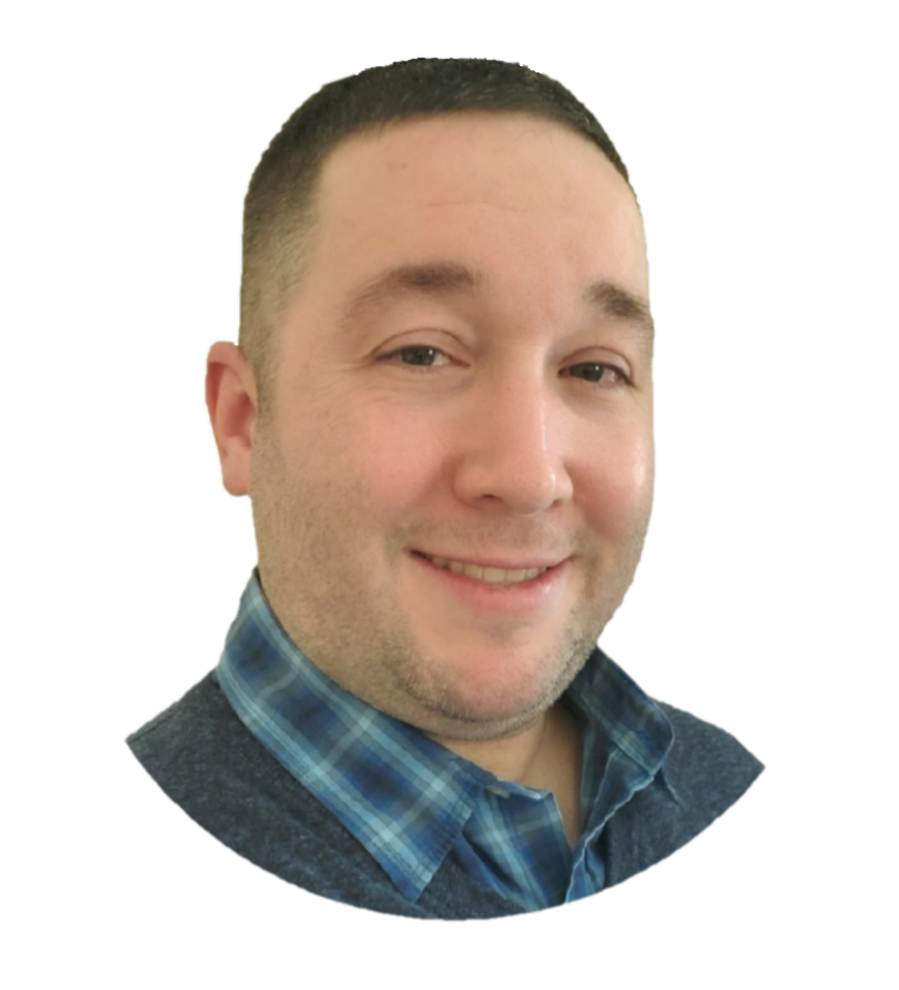
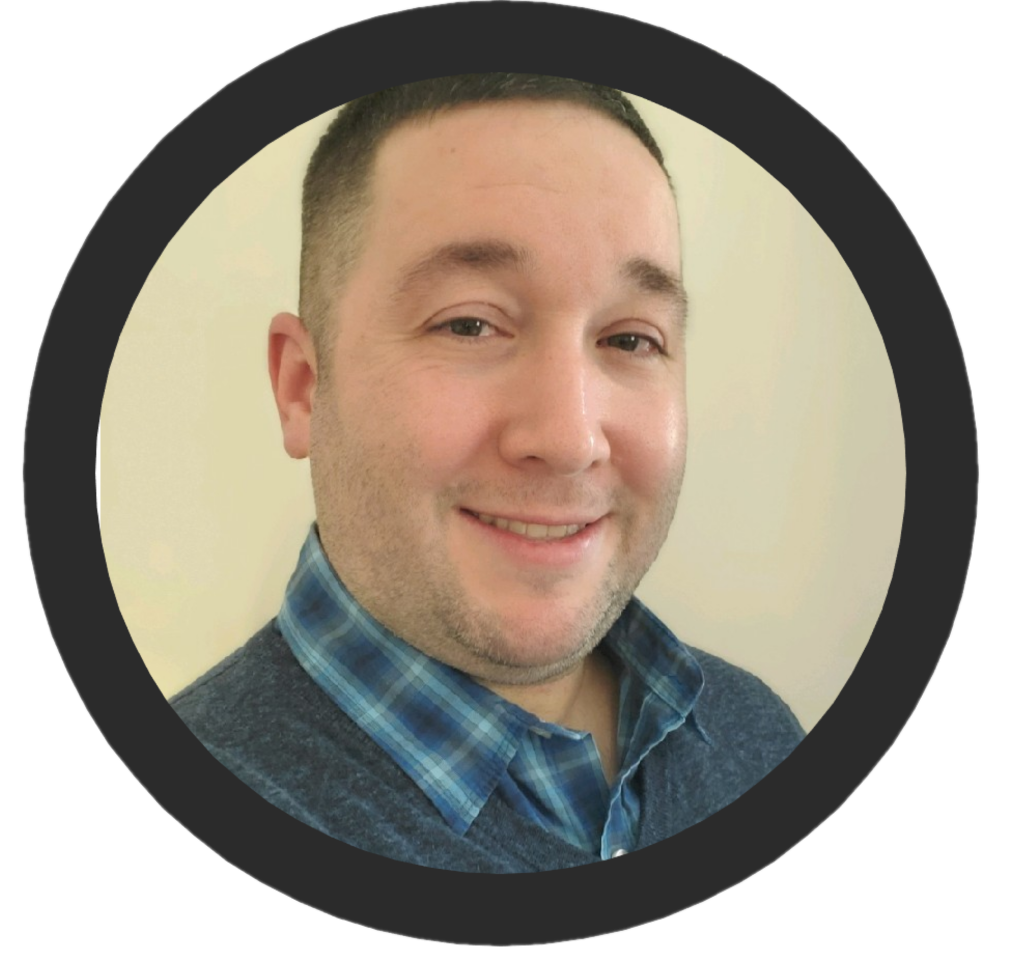
Update responsiveness for about section

diff --git a/assets/css/style.css b/assets/css/style.css
@@ -62,14 +62,21 @@ nav a:hover,footer a:hover{
 
 /* Container for contents of about section */
 .about-container{
-    width:70vw;
-    margin:0 auto;
+    width:80vw;
+    display:flex;
+    justify-content: space-around;
+    margin:auto;
 }
 
 /* Portrait picture */
 #portrait{
     width:200px;
-    float:left;
+    border:15px solid var(--nav-background);
+    border-radius:0.2rem;
+    
+}
+.about-container p{
+    width:55%;
 }
 
 /* Style for my name */
@@ -185,7 +192,7 @@ nav a:hover,footer a:hover{
     justify-content: center;
     align-items: flex-end;
     border-radius:0.1rem;
-
+    font-size: 1rem;
     /* Adds a slight inset effect */
     border-right:1px solid white;
     border-bottom:1px solid white;    
@@ -209,11 +216,11 @@ nav a:hover,footer a:hover{
 }
 
 .large p{
-    font-size: 0.7rem;
+    font-size: 0.7em;
 }
 
 .small p{
-    font-size:0.6rem;
+    font-size:0.6em;
 }
 
 /* Display details on hover */
@@ -255,8 +262,14 @@ footer ul{
 
 /* Project image resize for large screens */
 @media screen and (min-width:1475px) {
+    *{
+        font-size: 1.1em;
+    }
     .two,.three{
         background-size: cover;
+    }
+    .about-container p {
+        width:40%;
     }
     
 }
@@ -287,6 +300,14 @@ footer ul{
 
     #about{
         text-align: center;
+    }
+    
+    .about-container{
+        display:block;
+    }
+    .about-container p{
+        margin: auto;
+        width:100%;
     }
 
     #work{
@@ -362,6 +383,10 @@ footer ul{
 
     #name{
         display:inline-block;
+    }
+
+    .about-container{
+        display:block;
     }
 
     .project{

diff --git a/index.html b/index.html
@@ -31,8 +31,8 @@
             <!-- Container for about section -->
             <section class="about-container"> 
 
-                <img src="./assets/images/Brian.png" alt="Brian Halpin portrait" id="portrait">
-                <p>Hi, I'm <span id="name">Brian Halpin.</span> </p>    
+                <img src="./assets/images/brian.jpeg" alt="Brian Halpin portrait" id="portrait">
+                <p>Hi, I'm <span id="name">Brian Halpin.</span> I am a full stack software developer.</p>    
 
             </section>
         </section>
